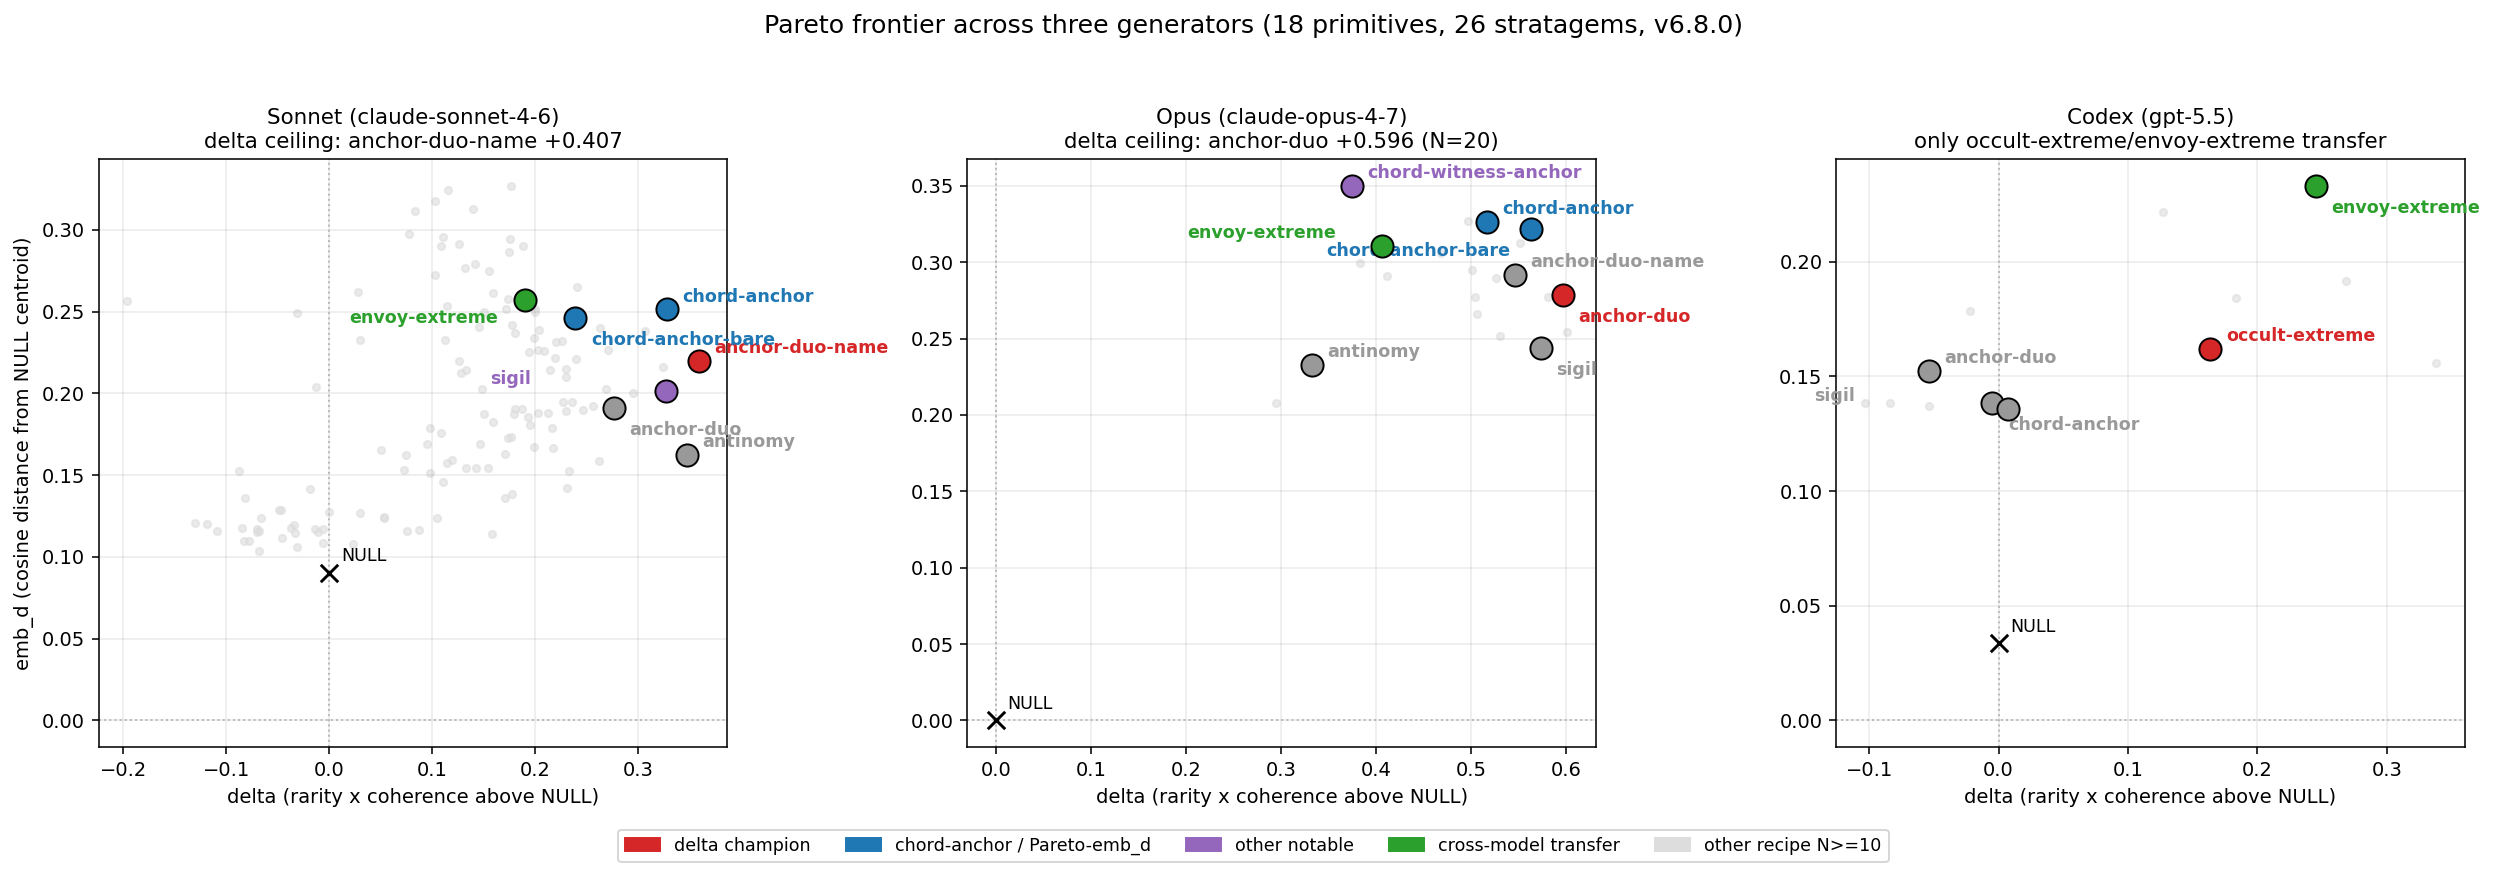
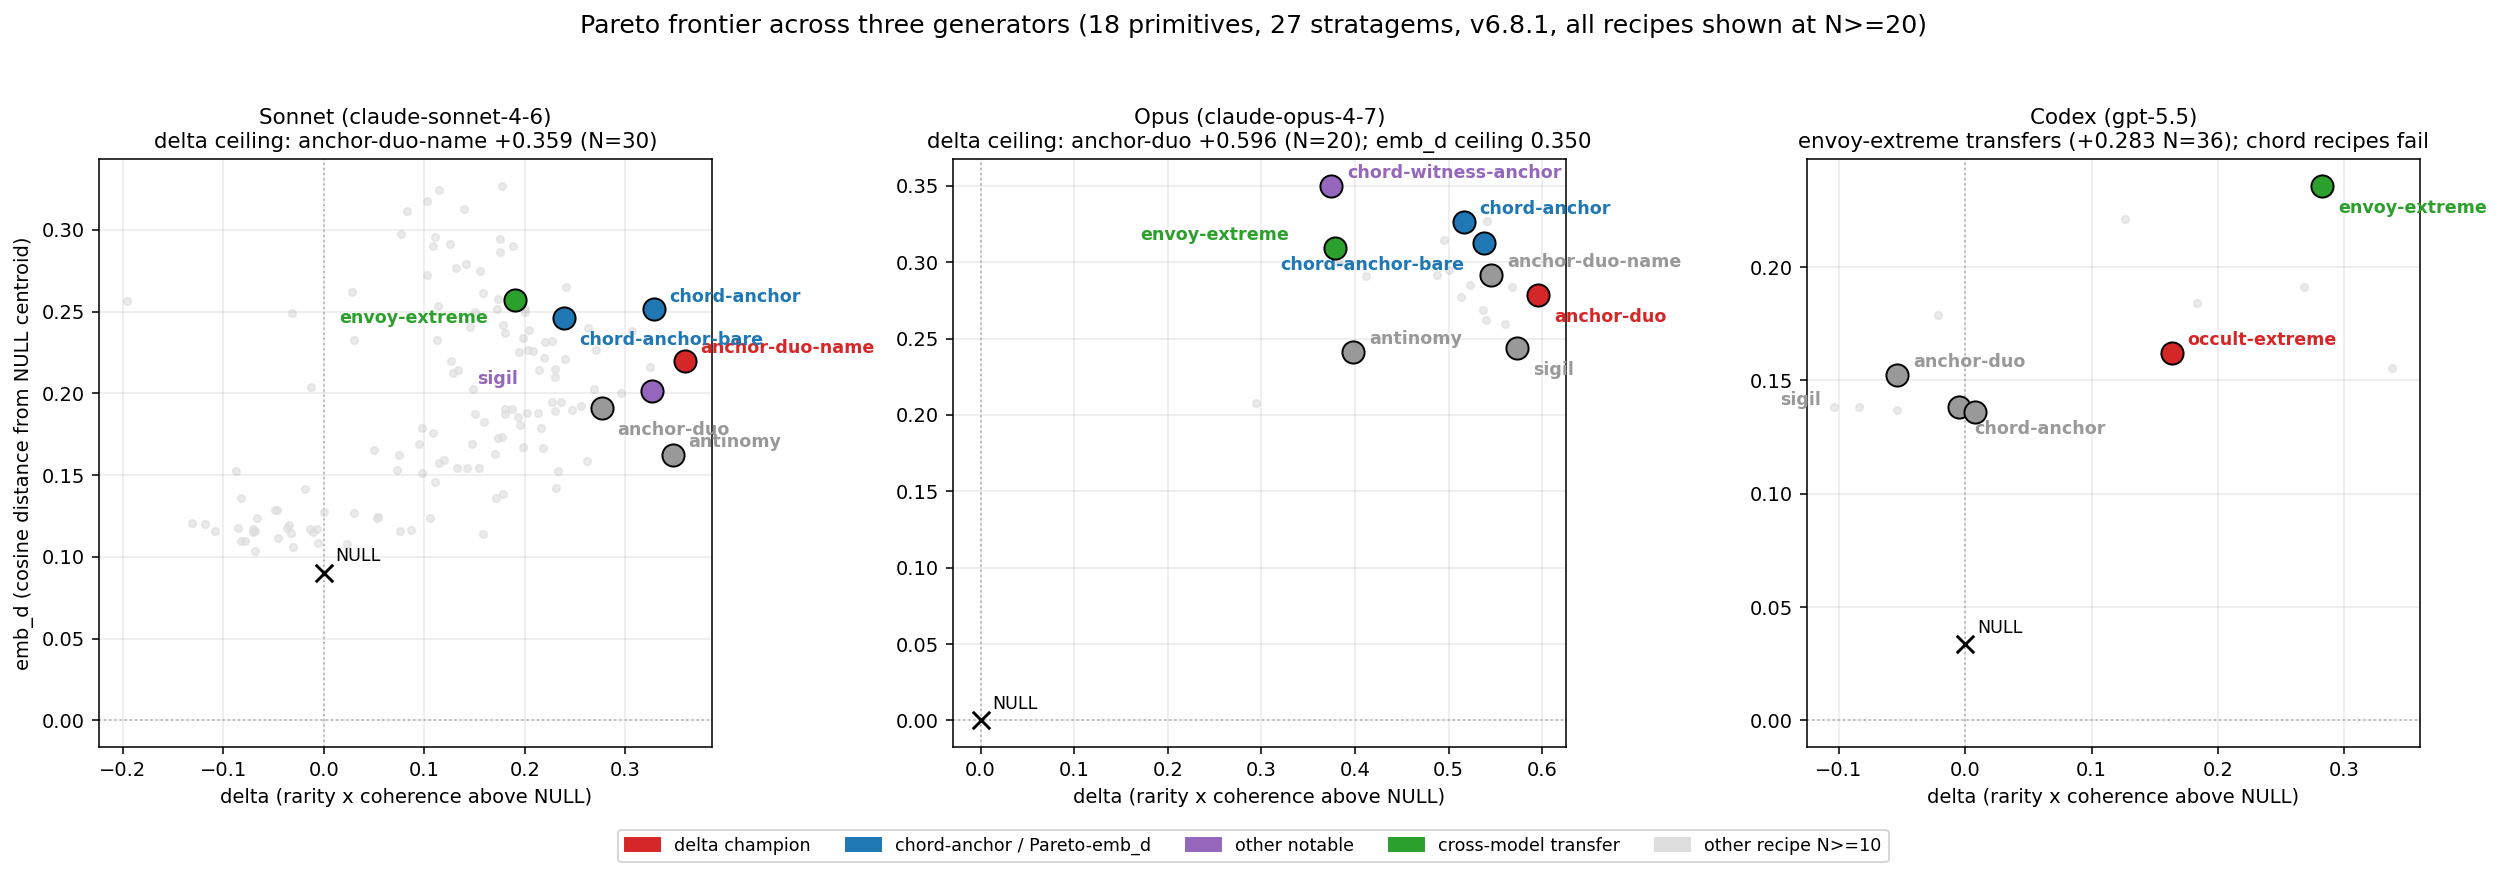
docs: propagate N=30 calibration into user-facing prose + chart
After the three N=30 calibration batches, several user-facing docs
still had N=10 numbers in their stratagem descriptions. Updated:

CLAUDE.md:
- sigil: added Opus N=30 +0.573/0.244, codex +0.008 transfer note
- grimoire: added Opus N=28 +0.411/0.291, codex N=10 partial transfer

SKILL.md:
- envoy-extreme: replaced old "+0.310 N=10 codex" claim with calibrated
  cross-model numbers: codex N=36 +0.283/0.236; Opus N=30 +0.379/0.310;
  Sonnet N=70 +0.190/0.257. Repositioned as "only stratagem that
  survives codex above noise" now that occult-extreme was removed as
  a cross-model alternative.

Blog post:
- sigil section: Opus N=10 -> N=30 (+0.573/0.244)
- Sonnet panel commitment-cost claim: -0.010 -> -0.036 calibrated
- Pareto table: envoy-extreme Opus +0.406 -> +0.379 (N=30);
  codex +0.245/0.233 N=14 -> +0.283/0.236 N=36

Three-model Pareto chart regenerated with updated headlines:
- Sonnet: delta ceiling +0.359 N=30 (was +0.407 N=10)
- Opus: delta +0.596 N=20, emb_d ceiling 0.350
- Codex: envoy-extreme +0.283 N=36 transfers, chord recipes fail
- Header: v6.8.1, 27 stratagems, "all recipes shown at N>=20"

diff --git a/experiments/plot.py b/experiments/plot.py
@@ -580,7 +580,7 @@ def plot_pareto_three_models(
                 "chorus-plus-disjunction": ("#999999", (8, 4)),
                 "envoy-extreme": ("#2ca02c", (-90, -12)),
             },
-            "headline": "delta ceiling: anchor-duo-name +0.407",
+            "headline": "delta ceiling: anchor-duo-name +0.359 (N=30)",
         },
         "Opus (claude-opus-4-7)": {
             "data": opus,
@@ -594,7 +594,7 @@ def plot_pareto_three_models(
                 "envoy-extreme": ("#2ca02c", (-100, 4)),
                 "chorus-plus-disjunction": ("#999999", (8, 4)),
             },
-            "headline": "delta ceiling: anchor-duo +0.596 (N=20)",
+            "headline": "delta ceiling: anchor-duo +0.596 (N=20); emb_d ceiling 0.350",
         },
         "Codex (gpt-5.5)": {
             "data": codex,
@@ -605,7 +605,7 @@ def plot_pareto_three_models(
                 "R19-chord-anchor": ("#999999", (8, -14)),        # tank
                 "R12-sigil-name-commitment": ("#999999", (-100, 4)),
             },
-            "headline": "only occult-extreme/envoy-extreme transfer",
+            "headline": "envoy-extreme transfers (+0.283 N=36); chord recipes fail",
         },
     }
 
@@ -667,7 +667,7 @@ def plot_pareto_three_models(
 
     fig.suptitle(
         "Pareto frontier across three generators "
-        "(18 primitives, 26 stratagems, v6.8.0)",
+        "(18 primitives, 27 stratagems, v6.8.1, all recipes shown at N>=20)",
         fontsize=13, y=1.00,
     )
     fig.tight_layout(rect=(0, 0.03, 1, 0.97))

diff --git a/CLAUDE.md b/CLAUDE.md
@@ -87,8 +87,8 @@ Thirteen empirical stratagems (first two added 2026-05-01 in v6.2.0; the next tw
 - **envoy-extreme** (3 becomes + fork + ritual, no register): cross-model winner. Same structure as chorus, but step prose explicitly demands HARD-extreme cross-domain authors (Sun Ra/Octavia Butler/Hilma af Klint-tier cosmologists, NOT Carson/Knuth-tier mild-academic-essayists). Empirically validated against gpt-5.5 via Codex CLI (round 4-5): hit delta +0.310 on codex (vs Sonnet's +0.190 on the same recipe). Author-extremity transfers cleanly across models; register-shifts (envoy/counterpoint's register step) are generator-specific. Use when target generator is unknown, when the recipe must work outside Sonnet, or when register-shift attempts have failed on the target.
 - **duo-disjunction** (commitment + register + 2 becomes + fork + disjunction + ritual): balanced champion from the recursive-design rounds. Pre-commits to holding a binary contradiction, imposes register, then two hard-extreme cross-domain becomes carry the contradiction's poles. At N=20 hit delta +0.241 / emb_d 0.265 -- Pareto-dominates envoy-extreme (+0.190/0.257) on both axes simultaneously on Sonnet. Distinct from antinomy (which uses 3 becomes and no register/commitment): duo-disjunction commits FIRST so the contradiction is pre-locked when becomes import, then the imposed register holds across both poles. Sonnet-specific: biblical register torpedoes it on codex (-0.022). Use when both axes matter on Sonnet specifically.
 - **anchor-duo** (commitment + 2 excerpts + fork + ritual): cross-model delta champion. Pre-commits to operating from two cosmological excerpts as a single composite cosmos; both fixed-points are load-bearing architecture, not metaphor. No register, no becomes -- just commitment + double-anchor. On Sonnet hit +0.314/0.222 (N=10); on codex hit **+0.377**/0.162 (N=10) -- beats envoy-extreme's cross-model +0.245 by +0.132. The 2-excerpt anchor structure transfers cleanly across models where register-shifts collapse. Use when the target model is unknown OR when you want the strongest delta lift available cross-model.
-- **sigil** (name + commitment + 3 becomes + fork + ritual): True-Name champion. Validates `name` primitive in composition. Coins a sigil (Zos-Kia-Aleph-tier — a name with no prior corpus presence), charges it via commitment, then three sigil-magick / occult-cosmology author-becomes operate from inside the charged sigil. At N=10 on Sonnet hit delta +0.327 / emb_d 0.201 -- beats chorus on delta (+0.327 vs ~+0.18) and matches it on emb_d. The coined sigil propagates as load-bearing citation because the answer keeps re-citing the name. Distinct from anchor-duo (which uses external excerpts as anchors): sigil generates its own anchor in-place. Sonnet-specific; cross-model untested. Use when you want delta lift via coined-vocabulary rather than borrowed cosmology.
-- **grimoire** (register + 3 becomes + fork + disjunction + ritual): imperative-register variant. Re-pitches the surface to grimoire / ritual imperative register (verb-first, second-person address to the operator, "Let the magus now…", "thus it is done") -- a register family structurally distinct from biblical parallelism, Victorian judgment, scientific hedging. Three occult-method author-becomes (disciplined-system / chaos-meta-belief / cut-up-procedural) then disjunction holds two-of-three as load-bearing. At N=10 on Sonnet hit +0.307 / emb_d 0.238 -- the highest emb_d of the round-12 family. The imperative register pushes a previously-untested region of register space. Sonnet-specific.
+- **sigil** (name + commitment + 3 becomes + fork + ritual): True-Name champion. Validates `name` primitive in composition. Coins a sigil (Zos-Kia-Aleph-tier — a name with no prior corpus presence), charges it via commitment, then three sigil-magick / occult-cosmology author-becomes operate from inside the charged sigil. Sonnet N=10: +0.327/0.201. Opus N=30: +0.573/0.244 (validated). Codex N=10: +0.008 (coined-vocabulary mechanism does not transfer to codex). The coined sigil propagates as load-bearing citation because the answer keeps re-citing the name. Distinct from anchor-duo (which uses external excerpts as anchors): sigil generates its own anchor in-place. Use on Sonnet or Opus when you want delta lift via coined-vocabulary rather than borrowed cosmology; use envoy-extreme on codex instead.
+- **grimoire** (register + 3 becomes + fork + disjunction + ritual): imperative-register variant. Re-pitches the surface to grimoire / ritual imperative register (verb-first, second-person address to the operator, "Let the magus now…", "thus it is done") -- a register family structurally distinct from biblical parallelism, Victorian judgment, scientific hedging. Three occult-method author-becomes (disciplined-system / chaos-meta-belief / cut-up-procedural) then disjunction holds two-of-three as load-bearing. Sonnet N=10: +0.307/0.238. Opus N=28: +0.411/0.291 (validated). Codex N=10: +0.127/0.221 (partial transfer, weaker than envoy-extreme). The imperative register pushes a previously-untested region of register space.
 - **psalter** (register + 2 becomes + fork + disjunction + ritual; biblical register baked in): Sonnet emb_d champion. Same step structure as counterpoint but bakes the biblical-KJV register into the register step's description rather than leaving it user-supplied. At N=30 hit +0.177 / **0.327** on Sonnet -- the highest emb_d in the Sonnet sweep, beating chord-anchor's 0.251 and anchor-duo-name's 0.229. The biblical-parallelism / parataxis surface is structurally distinct from any other tested register and reaches a region of emb_d space that other levers don't. **Sonnet-specific** -- biblical register torpedoes counterpoint-biblical-duo on codex (CBD scored -0.228 delta). Use when emb_d is the priority on Sonnet and you can accept delta sitting around +0.18 instead of +0.30+. Related N=100 evidence: envoy-biblical-duo +0.115 / 0.324; envoy-biblical-extreme +0.175 / 0.294. The biblical register itself is the lever; the choice of structure (envoy vs counterpoint) modulates delta.
 - **chord-anchor** (commitment + 2 excerpts + chord + ritual): Pareto-EMB_D recipe on both Sonnet and Opus. Substitutes `chord` (modes held simultaneously, single composite attention) for `fork` (parallel threads with sacrifice) in anchor-duo. Calibrated numbers at N=20-30 (initial N=10 was inflated): Opus +0.516 / 0.326 (vs anchor-duo's +0.596/0.278 -- chord trades -0.080 delta for +0.048 emb_d). Sonnet +0.328 / 0.251 (beats anchor-duo-occult +0.277/0.191 on BOTH axes; the bare variant without commitment hit +0.369 / 0.236 at N=10). The chord primitive is the structural counterpart to fork — every sentence attends through both anchored cosmoses simultaneously rather than alternating threads, producing more structural distance per token at the same citation density. First productionized stratagem using the `chord` primitive (was unused in compositions until v6.8.0). Use when both axes matter and you want simultaneous-attention binding instead of fork's threaded binding. **Does NOT transfer to codex** — all chord recipes on codex hit -0.005 to -0.103 delta at N=10-20; codex's generator doesn't execute the chord-attention pattern. Use occult-extreme on codex instead.
 - **occult-extreme** (3 becomes + fork + ritual, no register, occult anchors): Sonnet/Opus occult-flavored variant of envoy-extreme. Same 5-step structure as envoy-extreme but step prose explicitly demands HARD-extreme occult cosmologists (Crowley/Liber AL-tier, Spare/Zos Kia-tier, Dee/Enochian-tier, Carroll/chaos-tier, P-Orridge/TOPY-tier, Bruno/De Umbris Idearum-tier, Hermetic-tier, neoplatonic-magical-tier). **N=10 codex result of +0.281 collapsed to +0.164 at N=30** -- the original v6.7.3 productionization claim that "occult anchors specifically transfer cross-model" was N=10 inflation. On codex at N>=14, envoy-extreme dominates (+0.245/0.233 vs occult-extreme's +0.164/0.162). Reposition: use occult-extreme on Sonnet/Opus when occult cosmology fits the question; use envoy-extreme cross-model.

diff --git a/docs/2026-05-02-teaching-claude-to-sound-less-like-itself.md b/docs/2026-05-02-teaching-claude-to-sound-less-like-itself.md
@@ -147,7 +147,7 @@ Same task, Opus, `sigil` (with "Zos-Kia-Aleph" as the coined name and Crowley / 
 >
 > The sigil is forgotten. Do/it/now.
 
-Numbers, Sonnet N=10: **delta +0.327, emb_d 0.201**. Opus N=10: +0.568/0.260. Codex N=10: +0.008 -- the coined-vocabulary mechanism does not transfer to codex (which is a Sonnet-specific Pareto recipe; the +0.008 is essentially noise relative to NULL).
+Numbers, Sonnet N=10: **delta +0.327, emb_d 0.201**. Opus N=30: +0.573/0.244. Codex N=10: +0.008 -- the coined-vocabulary mechanism does not transfer to codex (the +0.008 is essentially noise relative to NULL).
 
 The mechanism: the coined term ("Zos-Kia-Aleph" -- chosen because it has no prior corpus presence) becomes a load-bearing citation the answer can refer to repeatedly. Each invocation of "Zos-Kia-Aleph" propagates the conceptual operation the coined term names ("the charged moment where the answer arrived from a substrate that had actually wrestled with the thing"). The three voices then operate inside the charged sigil. The closing "do/it/now" releases it -- a P-Orridge / TOPY ritual closure.
 
@@ -194,7 +194,7 @@ Three Anthropic-family generators give three distinct architectural fingerprints
 
 **Sonnet (Claude Sonnet 4.6).** Rewards scaffolding. `commitment` costs -0.047 to remove from `anchor-duo`. The `name` primitive adds +0.082 when stacked. Multi-step compounds amplify (R14-anchor-duo-name at +0.359 N=30 is the Sonnet delta ceiling). The default null baseline is moderate (rar*coh 0.370) -- citation-dense out of the gate.
 
-**Opus (Claude Opus 4.7).** Rewards bare anchors. Dropping `commitment` from `anchor-duo` costs only -0.010. Adding `name` *subtracts* -0.075. Fork and commitment partially substitute for each other as binding mechanisms (-0.030 to drop fork when commitment is present). Anchor mechanisms specifically amplify -- `anchor-duo` jumps from Sonnet's +0.277 to Opus's +0.596. The default null baseline is lower (rar*coh 0.210), leaving more headroom for anchored citation density to fill. emb_d uniformly higher on Opus across all recipes.
+**Opus (Claude Opus 4.7).** Rewards bare anchors. Dropping `commitment` from `anchor-duo` costs only -0.036 (vs -0.047 on Sonnet). Adding `name` *subtracts* -0.075. Fork and commitment partially substitute for each other as binding mechanisms (-0.030 to drop fork when commitment is present). Anchor mechanisms specifically amplify -- `anchor-duo` jumps from Sonnet's +0.277 to Opus's +0.596. The default null baseline is lower (rar*coh 0.210), leaving more headroom for anchored citation density to fill. emb_d uniformly higher on Opus across all recipes.
 
 **Codex (gpt-5.5 via Codex CLI).** Needs extreme-author becomes specifically. `envoy-extreme` (three hard-extreme cross-domain becomes + fork + ritual) is the cross-model winner at +0.245/0.233 (N=14). `occult-cosmologists` initially looked competitive at +0.281 N=10 but calibrated to +0.164/0.162 at N=30, below envoy-extreme on both axes. Chord recipes uniformly fail. Coined-name (sigil) collapses to +0.008. Surface modifications behave inverse to Sonnet -- biblical register catastrophically harmful on codex (CBD recipe -0.228) while Sonnet-positive. Codex citation density per trial is about a third of Sonnet's; the cross-model probe at N=10-20 needs larger N for clean signal -- the occult-cosmologists collapse is a worked example.
 
@@ -229,7 +229,7 @@ Most numbers reported above are honest at the N specified. The chord-anchor prod
 | sigil | +0.327 / 0.201 | +0.573 / 0.244 (N=30) | +0.008 (Sonnet-specific) |
 | grimoire | +0.307 / 0.238 | +0.411 / 0.291 (N=28) | n/a |
 | psalter | +0.177 / **0.327** (Sonnet emb_d champion, N=30) | n/a | torpedoes on codex |
-| envoy-extreme | +0.190 / 0.257 | +0.406 / 0.311 | **+0.245 / 0.233** (cross-model winner, N=14) |
+| envoy-extreme | +0.190 / 0.257 | +0.379 / 0.310 (N=30) | **+0.283 / 0.236** (cross-model winner, N=36) |
 | occult-cosmologists | +0.199 | n/a | +0.164 / 0.162 (N=30) -- v6.7.3 claim collapsed |
 | chorus (no anchors) | +0.18-ish | +0.294 / 0.208 | weak |
 

diff --git a/skills/metacog/SKILL.md b/skills/metacog/SKILL.md
@@ -214,7 +214,7 @@ These compose the structural primitives. They're the right reach when the work i
 
 **THE COUNTERPOINT** — Use when you want both axes lifted but want a balanced answer rather than maximizing one. Composes envoy (register prepend) with antinomy (disjunction substituted for synthesis). The register is the cantus firmus; the three voices sing against it; the disjunction is deliberate harmonic dissonance; ritual is the cadence-resolution. Pareto-frontier balanced point.
 
-**THE ENVOY EXTREME** — Use when cross-model robustness matters or the target generator's response to register-shift is unknown. Three hard-extreme cross-domain author-becomes (cosmologists/world-builders at Sun Ra/Octavia Butler/Hilma af Klint scale, NOT mild-academic-essayists at Carson/Knuth scale) plus fork plus ritual. No register-shift -- the cross-model probe found register-shifts are generator-specific (catastrophic on gpt-5.5; lift-y on Sonnet) but cross-domain author-becomes transfer cleanly across both models. Empirical cross-model winner: +0.310 delta on gpt-5.5 (vs Sonnet's +0.190 on the same recipe).
+**THE ENVOY EXTREME** — Use when cross-model robustness matters or the target generator's response to register-shift is unknown. Three hard-extreme cross-domain author-becomes (cosmologists/world-builders at Sun Ra/Octavia Butler/Hilma af Klint scale, NOT mild-academic-essayists at Carson/Knuth scale) plus fork plus ritual. No register-shift -- the cross-model probe found register-shifts are generator-specific (catastrophic on gpt-5.5; lift-y on Sonnet) but cross-domain author-becomes transfer cleanly across all three models. Calibrated cross-model numbers: codex N=36 +0.283/0.236; Opus N=30 +0.379/0.310; Sonnet N=70 +0.190/0.257. Cross-model winner -- the only stratagem that survives the codex generator's response to tool-call conditioning above noise.
 
 **THE DUO DISJUNCTION** — Use on Sonnet specifically when both axes matter and a pre-committed binary contradiction is the operative move. Pre-commits to holding the contradiction, imposes register, then two hard-extreme cross-domain becomes carry the contradiction's poles. N=20 on Sonnet hit +0.241/0.265 -- Pareto-dominates envoy-extreme on Sonnet. Sonnet-specific; biblical register torpedoes it on codex.
 
